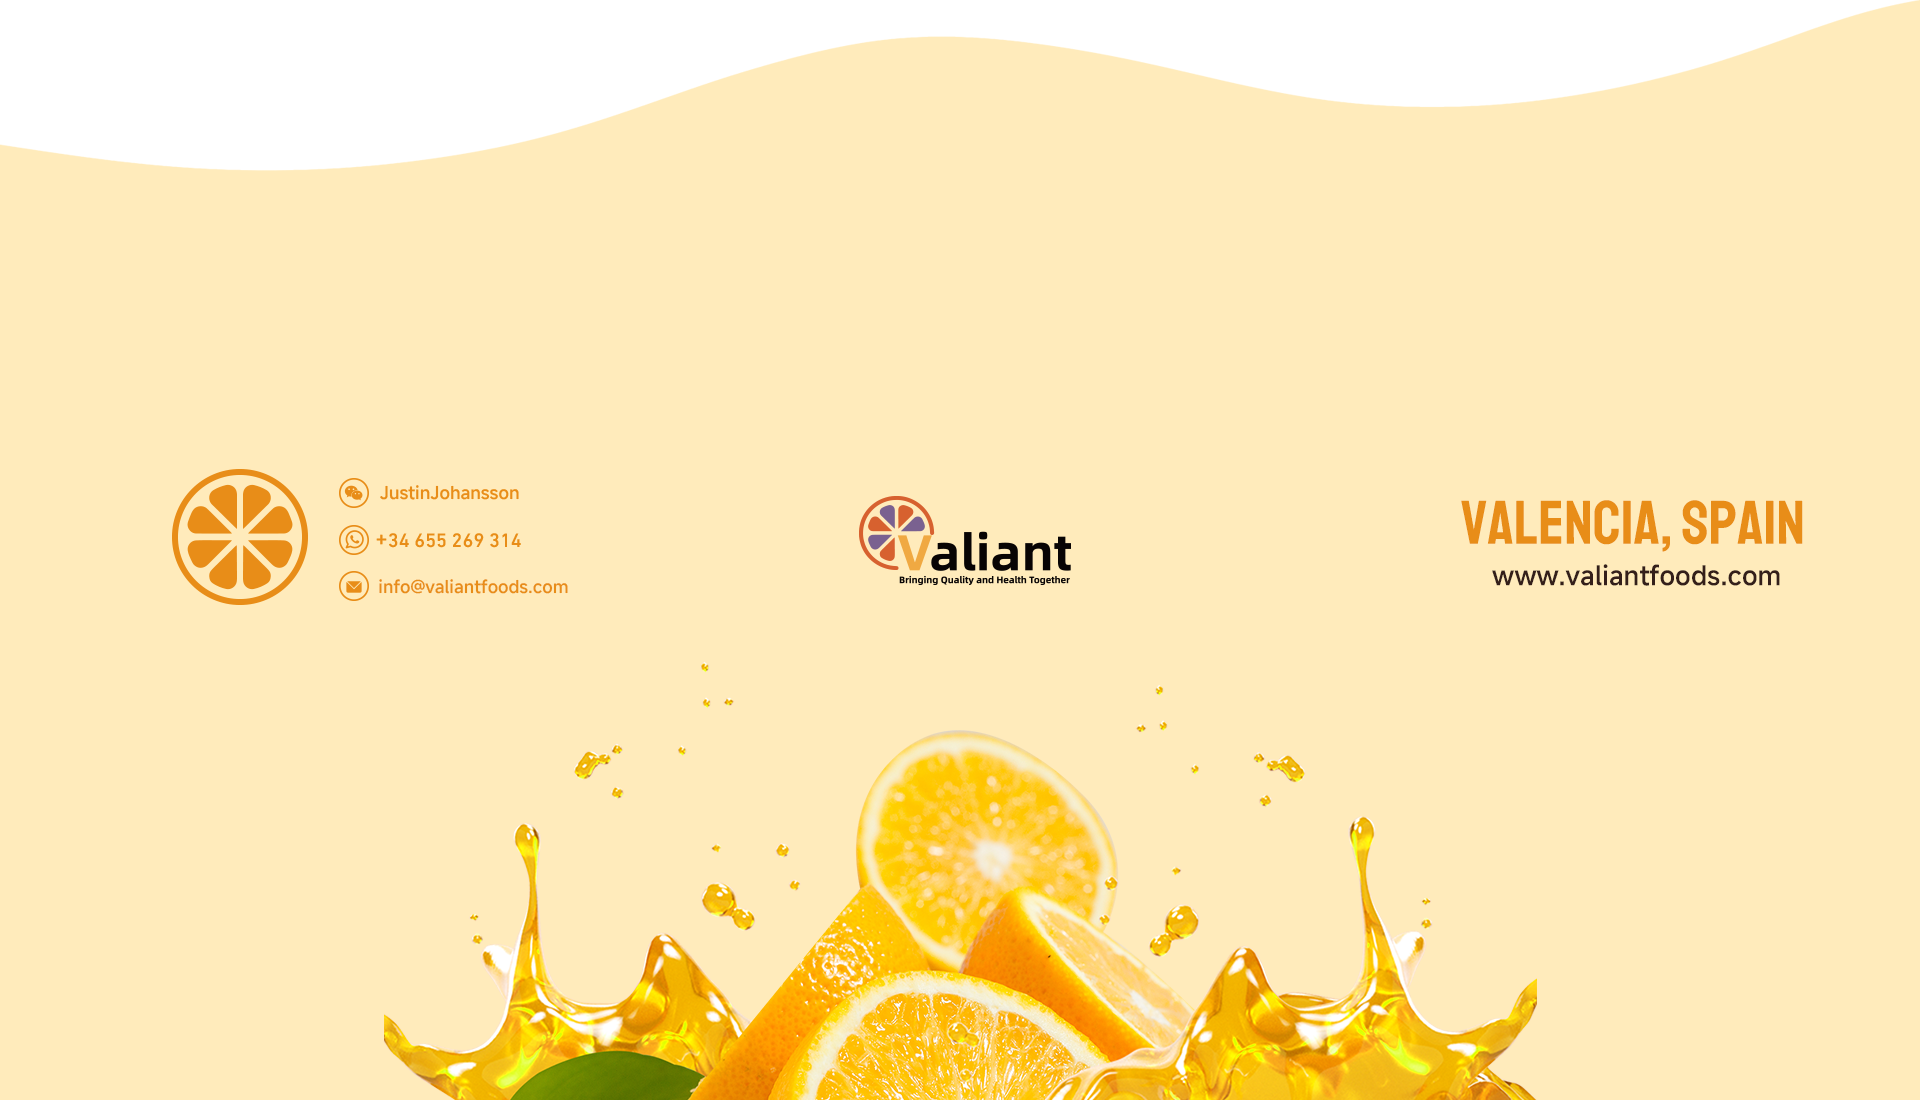
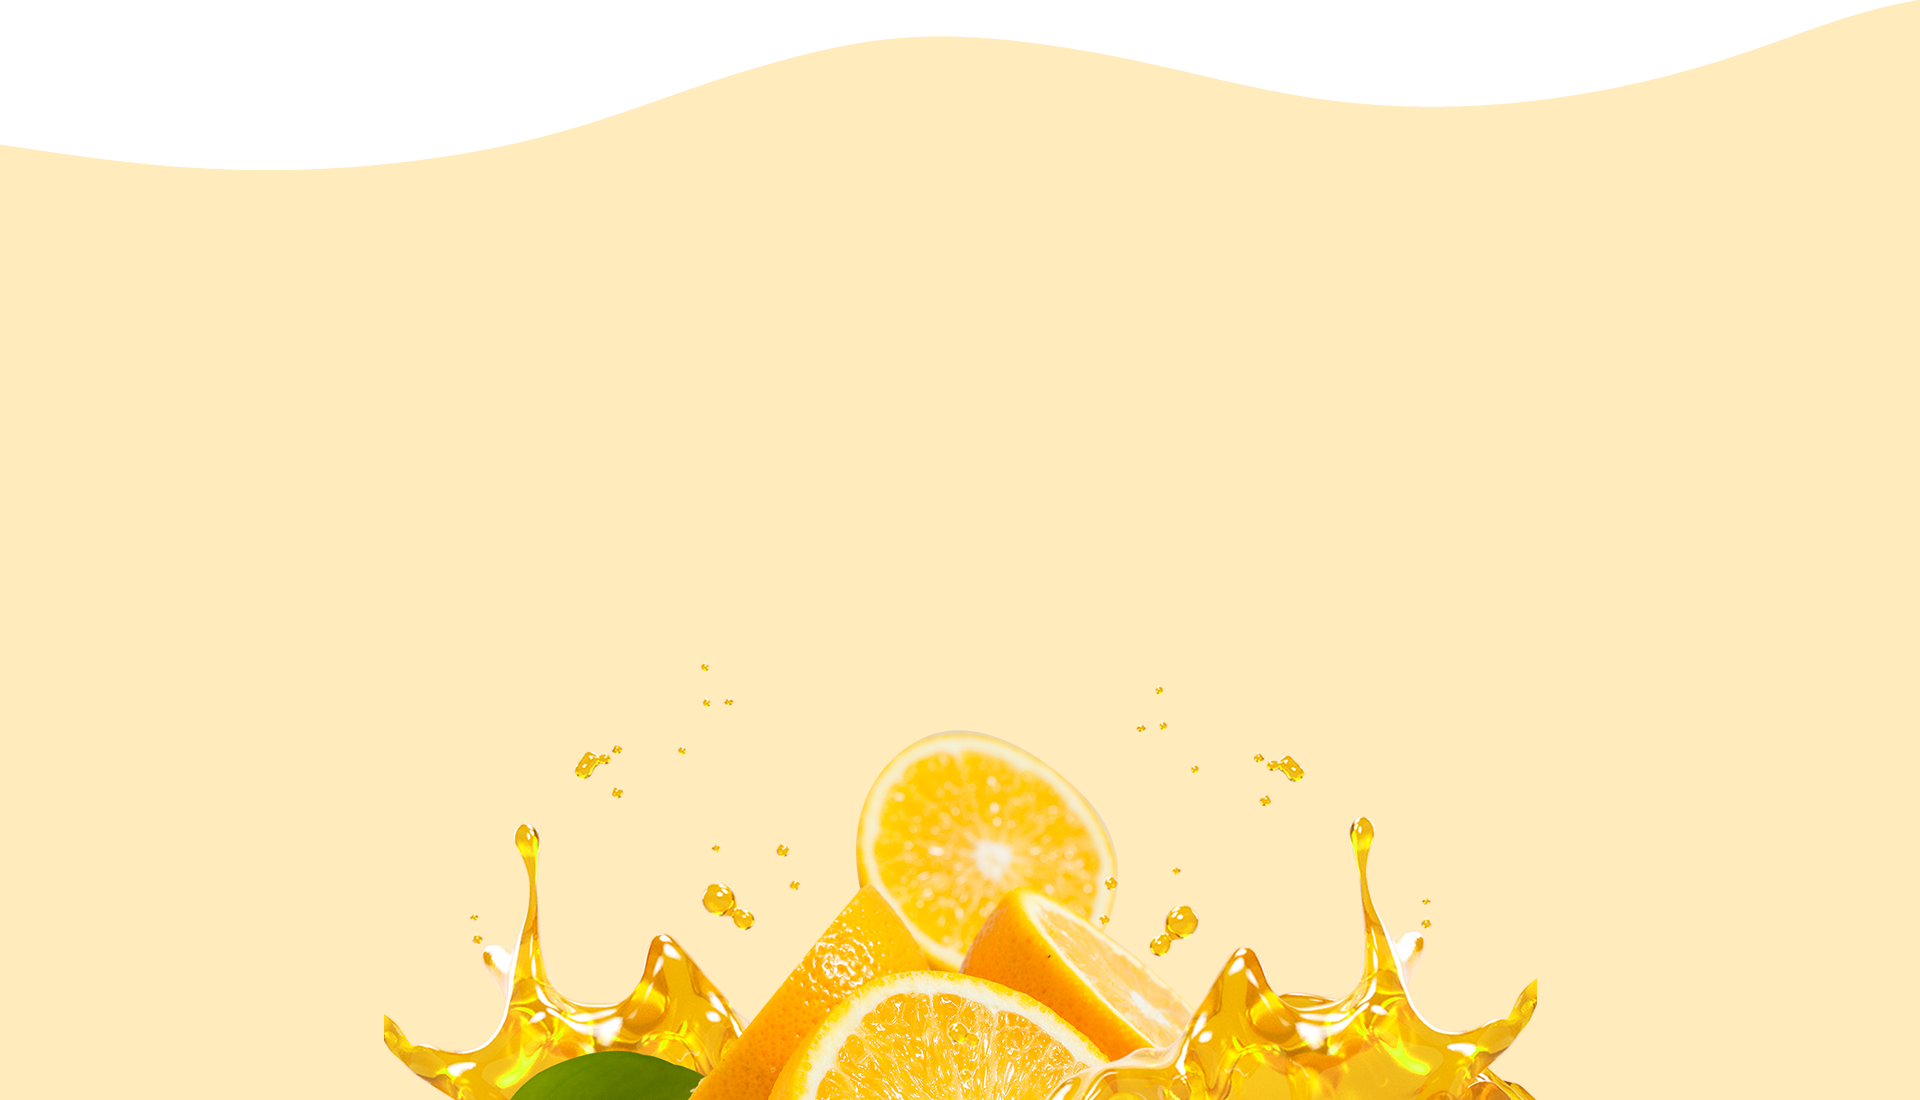
feat: 添加 Contact Us 表单功能
- 创建 ContactForm 组件，支持表单提交
- 添加英文标签和占位符
- 实现自动发送邮件到 info@valiantfoods.com 功能
- 在 Home 和 Product 页面集成表单
- 优化表单样式，移除背景使其与背景图融合
- 调整 Product 页面表单位置和布局
- 更新底部图片资源

Changed region(s): [[0.0625, 0.4327, 0.2812, 0.5564], [0.75, 0.4327, 0.9375, 0.5564], [0.4375, 0.4327, 0.5625, 0.5564]]

diff --git a/src/components/ContactForm.tsx b/src/components/ContactForm.tsx
@@ -1,0 +1,144 @@
+import { useState } from 'react'
+import type { FormEvent } from 'react'
+import styles from './ContactForm.module.css'
+
+export default function ContactForm() {
+  const [formData, setFormData] = useState({
+    name: '',
+    email: '',
+    subject: '',
+    message: '',
+  })
+  const [isSubmitting, setIsSubmitting] = useState(false)
+  const [submitStatus, setSubmitStatus] = useState<'idle' | 'success' | 'error'>('idle')
+
+  const handleChange = (e: React.ChangeEvent<HTMLInputElement | HTMLTextAreaElement>) => {
+    const { name, value } = e.target
+    setFormData(prev => ({ ...prev, [name]: value }))
+  }
+
+  const handleSubmit = async (e: FormEvent) => {
+    e.preventDefault()
+    setIsSubmitting(true)
+    setSubmitStatus('idle')
+
+    try {
+      // Send email via FormSubmit
+      const response = await fetch('https://formsubmit.co/ajax/info@valiantfoods.com', {
+        method: 'POST',
+        headers: {
+          'Content-Type': 'application/json',
+          'Accept': 'application/json',
+        },
+        body: JSON.stringify({
+          name: formData.name,
+          email: formData.email,
+          subject: formData.subject,
+          message: formData.message,
+          _captcha: false,
+          _template: 'box',
+        }),
+      })
+
+      if (response.ok) {
+        setSubmitStatus('success')
+        setFormData({ name: '', email: '', subject: '', message: '' })
+      } else {
+        setSubmitStatus('error')
+      }
+    } catch (error) {
+      console.error('Error submitting form:', error)
+      setSubmitStatus('error')
+    } finally {
+      setIsSubmitting(false)
+    }
+  }
+
+  return (
+    <form onSubmit={handleSubmit} className={styles.form}>
+      <div className={styles.formGroup}>
+        <label htmlFor="name" className={styles.label}>
+          Name <span className={styles.required}>*</span>
+        </label>
+        <input
+          type="text"
+          id="name"
+          name="name"
+          value={formData.name}
+          onChange={handleChange}
+          className={styles.input}
+          placeholder="Your full name"
+          required
+        />
+      </div>
+
+      <div className={styles.formGroup}>
+        <label htmlFor="email" className={styles.label}>
+          Email <span className={styles.required}>*</span>
+        </label>
+        <input
+          type="email"
+          id="email"
+          name="email"
+          value={formData.email}
+          onChange={handleChange}
+          className={styles.input}
+          placeholder="your.email@example.com"
+          required
+        />
+      </div>
+
+      <div className={styles.formGroup}>
+        <label htmlFor="subject" className={styles.label}>
+          Subject <span className={styles.required}>*</span>
+        </label>
+        <input
+          type="text"
+          id="subject"
+          name="subject"
+          value={formData.subject}
+          onChange={handleChange}
+          className={styles.input}
+          placeholder="Topic"
+          required
+        />
+      </div>
+
+      <div className={styles.formGroup}>
+        <label htmlFor="message" className={styles.label}>
+          Message <span className={styles.required}>*</span>
+        </label>
+        <textarea
+          id="message"
+          name="message"
+          value={formData.message}
+          onChange={handleChange}
+          className={styles.textarea}
+          rows={6}
+          placeholder="Please enter your inquiry"
+          required
+        />
+      </div>
+
+      {submitStatus === 'success' && (
+        <div className={styles.successMessage}>
+          Submitted successfully! We will get back to you soon.
+        </div>
+      )}
+
+      {submitStatus === 'error' && (
+        <div className={styles.errorMessage}>
+          Submission failed. Please try again later.
+        </div>
+      )}
+
+      <button
+        type="submit"
+        className={styles.submitButton}
+        disabled={isSubmitting}
+      >
+        {isSubmitting ? 'Submitting...' : 'Submit'}
+      </button>
+    </form>
+  )
+}

diff --git a/src/components/ContactForm.module.css b/src/components/ContactForm.module.css
@@ -1,0 +1,91 @@
+.form {
+  max-width: 600px;
+  margin: 0 auto;
+  padding: 40px 20px;
+  background: transparent; /* remove background to blend with image */
+  border-radius: 12px;
+  box-shadow: none; /* remove card shadow */
+}
+
+.formGroup {
+  margin-bottom: 24px;
+}
+
+.label {
+  display: block;
+  font-size: 14px;
+  font-weight: 600;
+  color: #333;
+  margin-bottom: 8px;
+}
+
+.required {
+  color: #f18424;
+}
+
+.input,
+.textarea {
+  width: 100%;
+  padding: 12px 16px;
+  font-size: 16px;
+  border: 2px solid #e0e0e0;
+  border-radius: 8px;
+  transition: all 0.3s ease;
+  font-family: inherit;
+}
+
+.input:focus,
+.textarea:focus {
+  outline: none;
+  border-color: #f18424;
+  box-shadow: 0 0 0 3px rgba(241, 132, 36, 0.1);
+}
+
+.textarea {
+  resize: vertical;
+  min-height: 120px;
+}
+
+.submitButton {
+  width: 100%;
+  padding: 14px 32px;
+  font-size: 16px;
+  font-weight: 600;
+  color: #fff;
+  background: #f18424;
+  border: none;
+  border-radius: 8px;
+  cursor: pointer;
+  transition: all 0.3s ease;
+}
+
+.submitButton:hover:not(:disabled) {
+  background: #d9731e;
+  transform: translateY(-2px);
+  box-shadow: 0 4px 12px rgba(241, 132, 36, 0.3);
+}
+
+.submitButton:disabled {
+  opacity: 0.6;
+  cursor: not-allowed;
+}
+
+.successMessage {
+  padding: 12px 16px;
+  margin-bottom: 16px;
+  background: #d4edda;
+  color: #155724;
+  border: 1px solid #c3e6cb;
+  border-radius: 8px;
+  font-size: 14px;
+}
+
+.errorMessage {
+  padding: 12px 16px;
+  margin-bottom: 16px;
+  background: #f8d7da;
+  color: #721c24;
+  border: 1px solid #f5c6cb;
+  border-radius: 8px;
+  font-size: 14px;
+}

diff --git a/src/pages/Product.tsx b/src/pages/Product.tsx
@@ -1,7 +1,9 @@
 import { useEffect, useRef, useState } from 'react'
 import top from '../assets/content/product/base/top.png'
 import bottom from '../assets/content/product/base/bottom.png'
+import baseBottom from '../assets/content/base/bottom.png'
 import styles from './Product.module.css'
+import ContactForm from '../components/ContactForm'
 
 type Item = { order: number; title: string; src: string; id: string }
 
@@ -123,6 +125,10 @@ export default function Product() {
             </article>
           ))}
           <img src={bottom} alt="footer" className={styles.bottom} />
+          <div className={styles.contactFormArea}>
+            <ContactForm />
+          </div>
+          <img src={baseBottom} alt="footer" className={styles.baseBottom} />
         </section>
       </div>
     </div>

diff --git a/src/pages/Home.tsx b/src/pages/Home.tsx
@@ -1,4 +1,5 @@
 import Carousel from '../components/Carousel'
+import ContactForm from '../components/ContactForm'
 import bottom from '../assets/content/base/bottom.png'
 import styles from './Home.module.css'
 
@@ -31,8 +32,13 @@ export default function Home() {
       <section id="about" className={styles.content}>
         <MainSections />
       </section>
-      <section id="contact" className={styles.footerImage}>
-        <img src={bottom} alt="footer" />
+      <section id="contact" className={styles.contact}>
+        <div className={styles.contactBackground}>
+          <img src={bottom} alt="footer" />
+        </div>
+        <div className={styles.contactFormWrapper}>
+          <ContactForm />
+        </div>
       </section>
     </div>
   )

diff --git a/src/pages/Product.module.css b/src/pages/Product.module.css
@@ -45,6 +45,7 @@
   display: grid;
   gap: 240px;
   margin-top: 20vh;
+  position: relative;
 }
 .block {
   scroll-margin-top: 72px;
@@ -59,12 +60,34 @@
   flex-direction: row-reverse;
 }
 .block img {
-  /* flex: 1; */
-  /* max-width: 50%; */
+  max-width: 100%;
+  height: auto;
+  display: block;
 }
 
 .bottom {
   margin-top: 20px;
+}
+.baseBottom {
+  position: absolute;
+  bottom: 0;
+  left: 0;
+  right: 0;
+  z-index: 1;
+}
+
+.contactFormArea {
+  position: absolute;
+  bottom: 100px;
+  left: 0;
+  right: 0;
+  z-index: 2;
+  max-width: 1200px;
+  width: 100%;
+  margin: 0 auto;
+  padding: 0 20px;
+  box-sizing: border-box;
+  bottom: 320px;
 }
 
 @media (max-width: 960px) {

diff --git a/src/pages/Home.module.css b/src/pages/Home.module.css
@@ -10,6 +10,37 @@
   max-width: 1200px;
   margin: 0 auto;
 }
-.footerImage { padding: 24px 0 0; }
+
+.contact {
+  position: relative;
+  padding: 60px 0;
+  background: #fafafa;
+  margin-top:340px;
+}
+
+.contactBackground {
+  position: absolute;
+  bottom: 0;
+  left: 0;
+  right: 0;
+  z-index: 1;
+  /* opacity: 0.3; */
+  pointer-events: none;
+}
+
+.contactBackground img {
+  width: 100%;
+  height: auto;
+  display: block;
+}
+
+.contactFormWrapper {
+  position: relative;
+  z-index: 2;
+  max-width: 1200px;
+  margin: 0 auto;
+  padding: 0 20px;
+  bottom: 320px;
+}
 
 

diff --git a/src/styles/global.css b/src/styles/global.css
@@ -1,4 +1,4 @@
-:root { --bg: #fff7e6; --text: #222; --accent: #f7b718; }
+:root { --bg: #fffaed; --text: #222; --accent: #f7b718; }
 * { box-sizing: border-box; }
 html, body, #root { height: 100%; }
 body { margin: 0; font-family: ui-sans-serif, system-ui, -apple-system, Segoe UI, Roboto, Arial, sans-serif; color: var(--text); background: var(--bg); }
